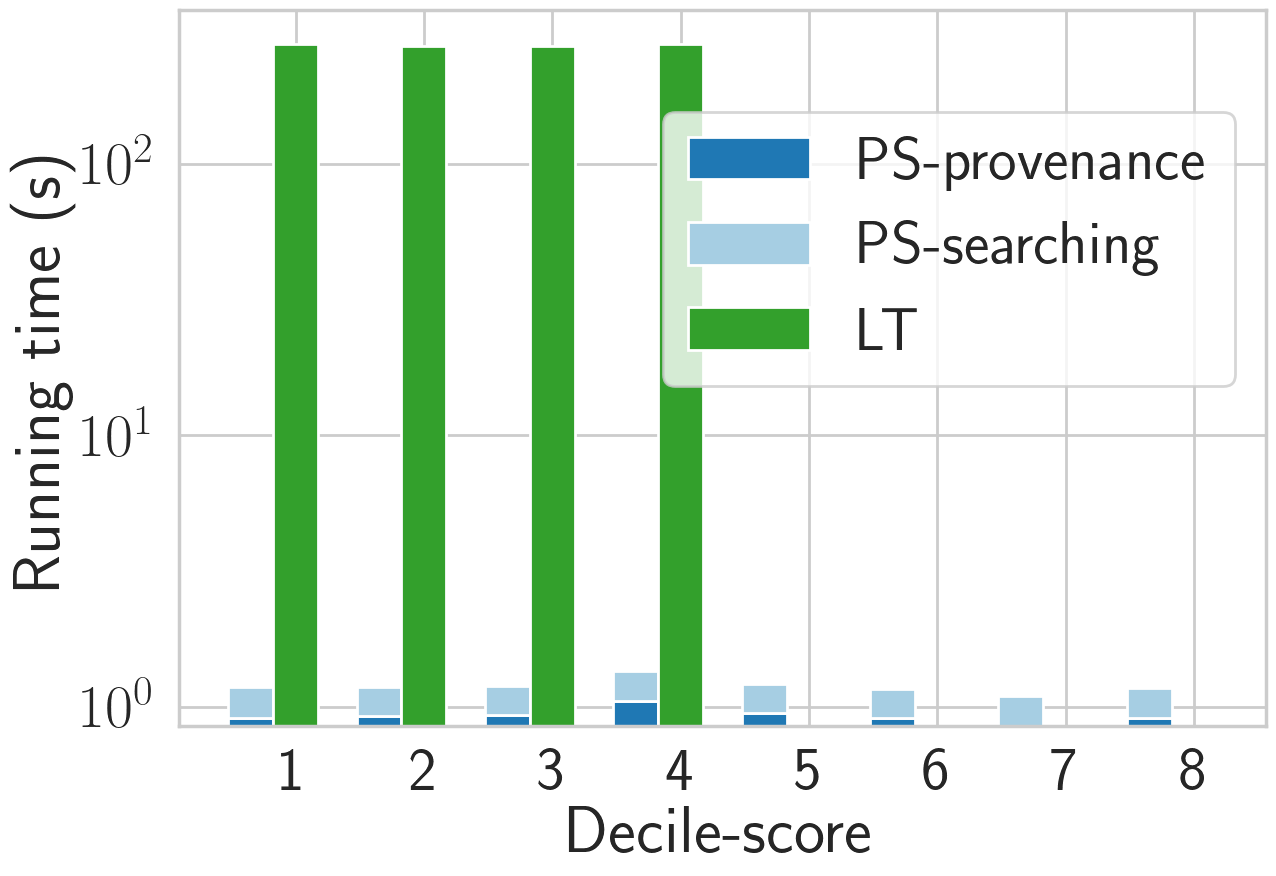
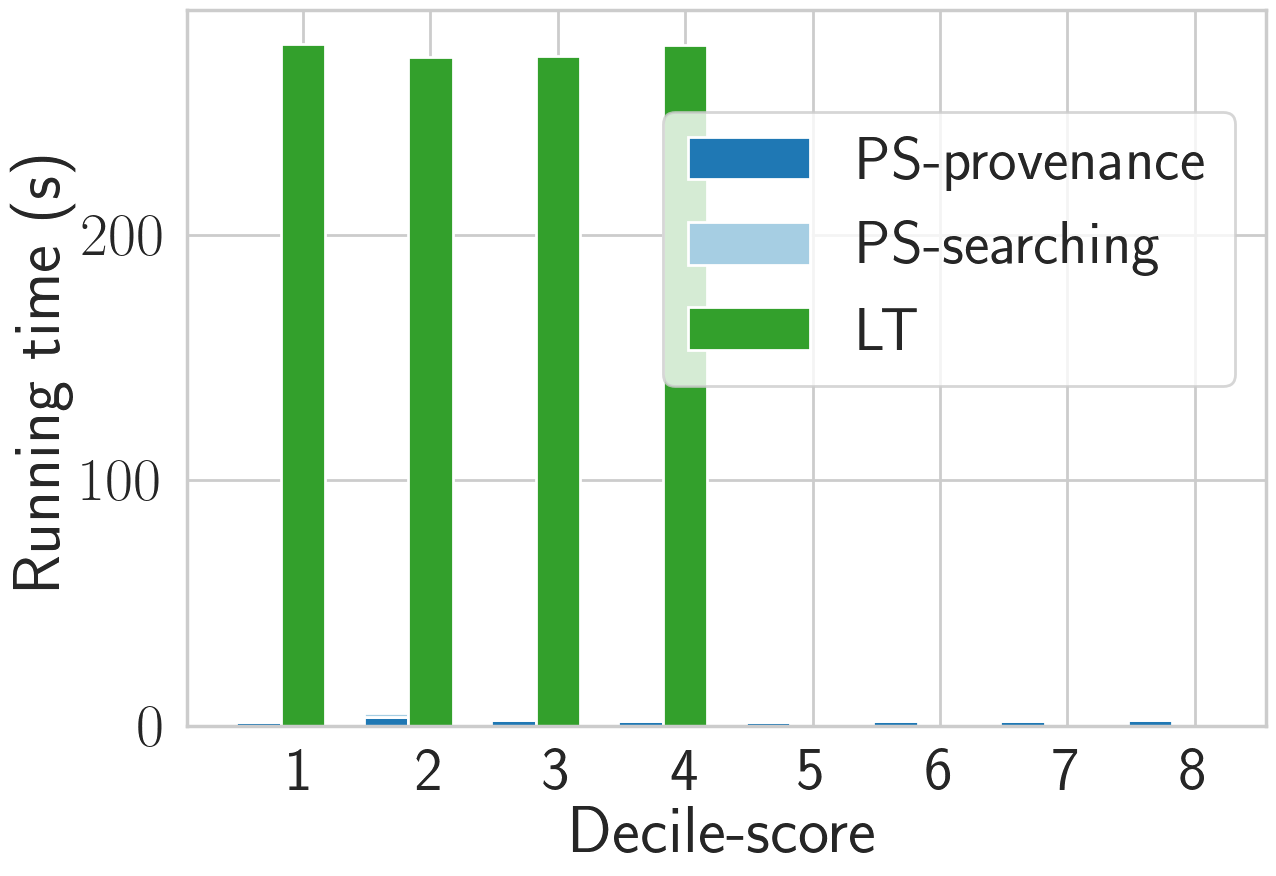
query change

diff --git a/Experiment/adult/query_change_2/Q1C3_1/query_change_q1c3_1.py b/Experiment/adult/query_change_2/Q1C3_1/query_change_q1c3_1.py
@@ -10,7 +10,7 @@ import time
 from intbitset import intbitset
 import json
 
-from Algorithm import ProvenanceSearchValues_7_20220827 as ps
+from Algorithm import ProvenanceSearchValues_4_20220712_global as ps
 from Algorithm import LatticeTraversal_2_2022405 as lt
 
 
@@ -23,7 +23,7 @@ minimal_added_refinements2 = []
 running_time2 = []
 
 
-data_file = r"../../../../InputData/Compas/compas-scores.csv"
+data_file = r"../../../../InputData/Adult/adult.data"
 query_file_prefix = r"./query"
 
 time_limit = 5*60
@@ -33,11 +33,11 @@ def run_constraint(c):
     constraint_file = r"./constraint" + str(c) + ".json"
 
 
-    time_output_file = r"./query_change_q1c3.csv"
+    time_output_file = r"./query_change_q1c3_1.csv"
     time_output = open(time_output_file, "w")
-    time_output.write("decile-score,PS,LT\n")
+    time_output.write("income,PS,LT\n")
 
-    result_output_file = r"./result_q1c3.txt"
+    result_output_file = r"./result_q1c3_1.txt"
     result_output = open(result_output_file, "w")
     result_output.write("selection file, result\n")
 
@@ -50,6 +50,7 @@ def run_constraint(c):
             ps.FindMinimalRefinement(data_file, query_file, constraint_file, time_limit)
 
         print("running time = {}".format(running_time1))
+        print(*minimal_refinements1, sep="\n")
 
         running_time2 = 0
         # print("========================== lattice traversal ===================================")
@@ -59,13 +60,13 @@ def run_constraint(c):
         #     print("naive alg out of time with {} time limit".format(time_limit))
         # else:
         #     print("running time = {}".format(running_time2))
-        print(*minimal_refinements1, sep="\n")
+        # print(*minimal_refinements1, sep="\n")
         result_output.write("\n")
-        idx = i
+        idx = i + 8
         time_output.write("{},{:0.2f},{:0.2f},{:0.2f}\n".format(idx, running_time1, provenance_time,
                                                                 search_time))
         result_output.write("{}\n".format(idx))
-        result_output.write(", ".join(str(item) for item in minimal_added_refinements1))
+        result_output.write(",".join(str(item) for item in minimal_added_refinements1))
         result_output.write("\n")
         result_output.write("\n".join(str(item) for item in minimal_refinements1))
         result_output.write("\n")

diff --git a/Experiment/compas/query_change_2/Q1C3_1/fig.py b/Experiment/compas/query_change_2/Q1C3_1/fig.py
@@ -67,7 +67,7 @@ plt.xlabel('Decile-score')
 plt.ylabel('Running time (s)')
 plt.legend(loc='upper right', bbox_to_anchor=(1, 0.9))
 # plt.legend(loc="best")
-plt.yscale("log")
+# plt.yscale("log")
 # plt.yticks([1, 10, 100, 1000])
 plt.tight_layout()
 plt.savefig("compas_query_change_q1c3.png", bbox_inches='tight')

diff --git a/Experiment/adult/query_change_2/Q1C1_2/query_change_q1c1.py b/Experiment/adult/query_change_2/Q1C1_2/query_change_q1c1.py
@@ -10,7 +10,7 @@ import time
 from intbitset import intbitset
 import json
 
-from Algorithm import ProvenanceSearchValues_6_20220825 as ps
+from Algorithm import ProvenanceSearchValues_7_20220827 as ps
 from Algorithm import LatticeTraversal_2_2022405 as lt
 
 minimal_refinements1 = []

diff --git a/Experiment/adult/query_change_2/Q1C1_1/query_change_q1c1.py b/Experiment/adult/query_change_2/Q1C1_1/query_change_q1c1.py
@@ -10,7 +10,7 @@ import time
 from intbitset import intbitset
 import json
 
-from Algorithm import ProvenanceSearchValues_6_20220825 as ps
+from Algorithm import ProvenanceSearchValues_7_20220827 as ps
 from Algorithm import LatticeTraversal_2_2022405 as lt
 
 

diff --git a/Experiment/adult/query_change_2/Q1C2_1/query_change_q1c2.py b/Experiment/adult/query_change_2/Q1C2_1/query_change_q1c2.py
@@ -10,7 +10,7 @@ import time
 from intbitset import intbitset
 import json
 
-from Algorithm import ProvenanceSearchValues_6_20220825 as ps
+from Algorithm import ProvenanceSearchValues_7_20220827 as ps
 from Algorithm import LatticeTraversal_2_2022405 as lt
 
 

diff --git a/Experiment/adult/query_change_2/Q1C2_2/query_change_q1c2.py b/Experiment/adult/query_change_2/Q1C2_2/query_change_q1c2.py
@@ -10,7 +10,7 @@ import time
 from intbitset import intbitset
 import json
 
-from Algorithm import ProvenanceSearchValues_6_20220825 as ps
+from Algorithm import ProvenanceSearchValues_7_20220827 as ps
 from Algorithm import LatticeTraversal_2_2022405 as lt
 
 

diff --git a/Experiment/adult/query_change_2/Q1C3_1/query_change_q1c3.py b/Experiment/adult/query_change_2/Q1C3_1/query_change_q1c3.py
@@ -10,7 +10,7 @@ import time
 from intbitset import intbitset
 import json
 
-from Algorithm import ProvenanceSearchValues_6_20220825 as ps
+from Algorithm import ProvenanceSearchValues_7_20220827 as ps
 from Algorithm import LatticeTraversal_2_2022405 as lt
 
 

diff --git a/Experiment/compas/query_change_2/Q1C3_2/query_change_q1c3.py b/Experiment/compas/query_change_2/Q1C3_2/query_change_q1c3.py
@@ -10,7 +10,7 @@ import time
 from intbitset import intbitset
 import json
 
-from Algorithm import ProvenanceSearchValues_6_20220825 as ps
+from Algorithm import ProvenanceSearchValues_7_20220827 as ps
 from Algorithm import LatticeTraversal_2_2022405 as lt
 
 

diff --git a/Experiment/healthcare/query_change_2/Q1C3/query_change_q1c3.py b/Experiment/healthcare/query_change_2/Q1C3/query_change_q1c3.py
@@ -11,7 +11,7 @@ from intbitset import intbitset
 import json
 
 
-from Algorithm import ProvenanceSearchValues_6_20220825 as ps
+from Algorithm import ProvenanceSearchValues_7_20220827 as ps
 from Algorithm import LatticeTraversal_2_2022405 as lt
 
 
